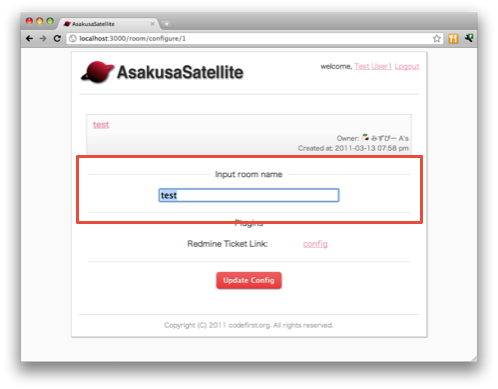
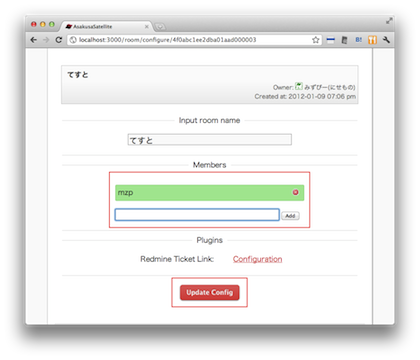
private部屋の設定について書いた。 refs #941

Changed region(s): [[0.031, 0.0306, 0.9905, 0.9778], [0.4333, 0.3056, 0.5881, 0.3667], [0.1857, 0.3056, 0.2167, 0.3361]]

diff --git a/source/function.rst b/source/function.rst
@@ -6,7 +6,7 @@
 
 .. image:: images/create_new_room_top.png
 
-2. 部屋名を入力し、 **Create** ボタンをクリックします。
+2. 部屋名を入力し、 **Create** ボタンをクリックします。 このとき **public room** のチェックをはずすと、参加者のみに公開される非公開部屋を作成できます。 参加者の追加・削除は部屋の設定画面から行なえます。
 
 .. image:: images/create_new_room.png
 
@@ -28,7 +28,8 @@
 
 .. image:: images/room_config.png
 
-設定を変更し、 **Update Config** ボタンをクリックします。
+部屋名の変更や、非公開部屋の参加者の追加や削除を行なえます。
+設定変更後、 **Update Config** ボタンをクリックすることで、設定が保存されます。
 
 .. image:: images/config_page.png
 
